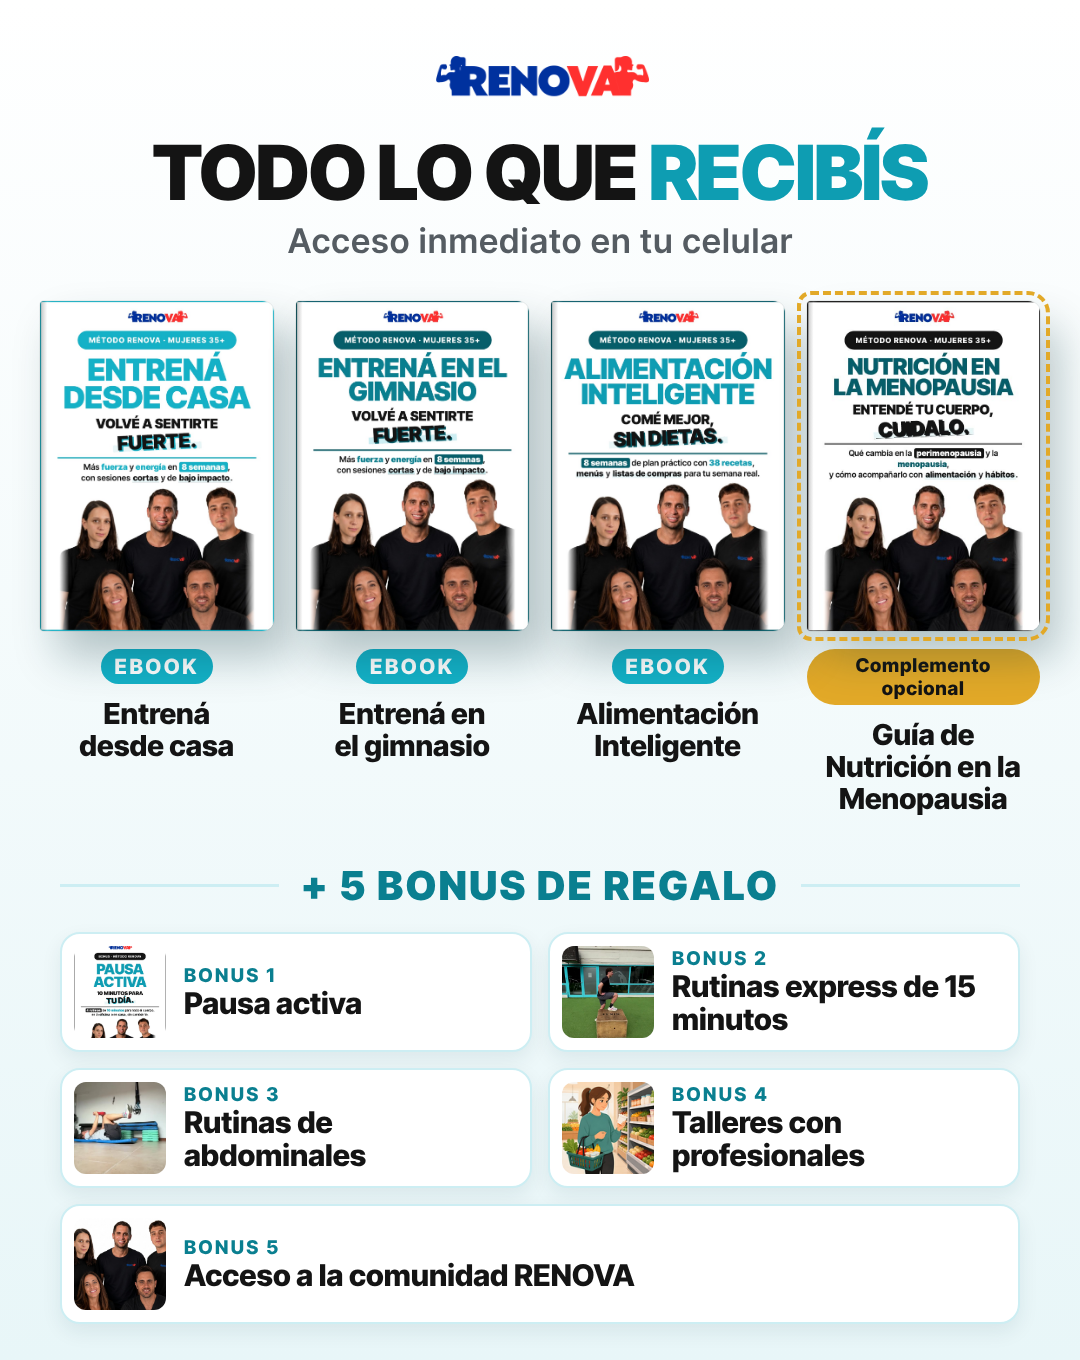
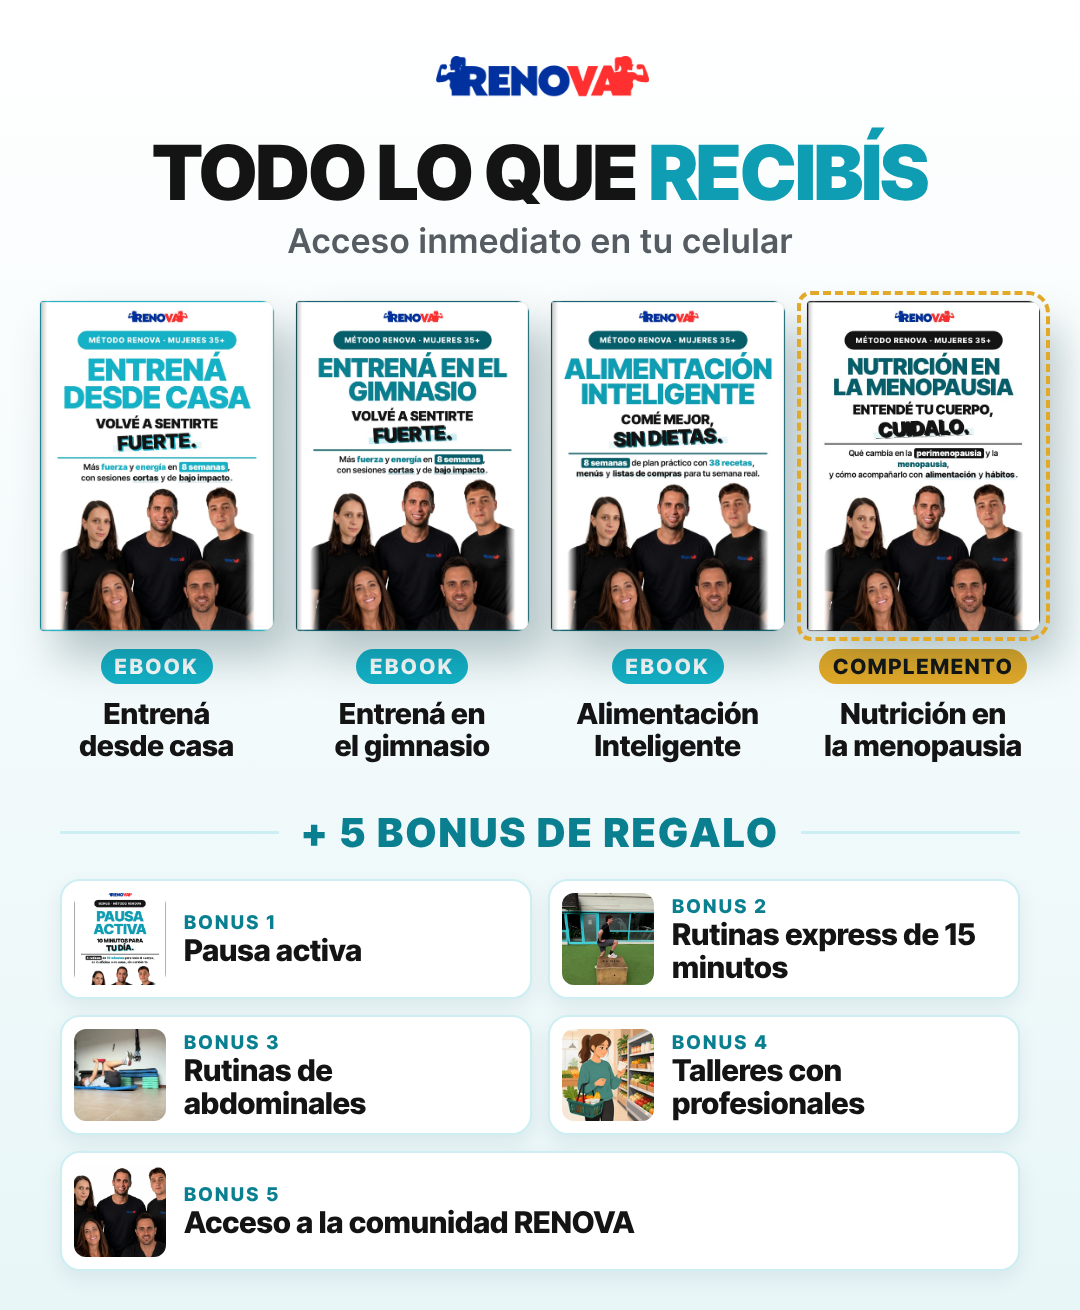
Pack del checkout: 'Nutrición en la menopausia' con etiqueta COMPLEMENTO
Claude-Session: https://claude.ai/code/session_016d9STMTFsB819XAn27rxwK

Changed region(s): [[0.0306, 0.0305, 0.9778, 0.6107], [0.0611, 0.6107, 0.9472, 0.9771], [0.9167, 0.6718, 0.9472, 0.7023]]

diff --git a/fuentes/landing/mockups/pack_checkout.html b/fuentes/landing/mockups/pack_checkout.html
@@ -93,7 +93,7 @@
 }
 
 *{box-sizing:border-box;margin:0;padding:0}
-body{width:1080px;height:1360px;overflow:hidden;font-family:InterW,sans-serif;color:var(--rnv-tinta);
+body{width:1080px;height:1310px;overflow:hidden;font-family:InterW,sans-serif;color:var(--rnv-tinta);
  background:linear-gradient(180deg,#fff 0%,var(--rnv-turquesa-fondo) 100%)}
 .top{text-align:center;padding-top:56px}
 .top img{height:52px}
@@ -107,7 +107,7 @@ h1 b{color:var(--rnv-turquesa-titulo)}
 .tapa img{width:100%;height:100%;object-fit:cover;display:block}
 .tapa::after{content:"";position:absolute;inset:0 auto 0 0;width:5%;background:linear-gradient(90deg,rgba(0,0,0,.25),rgba(255,255,255,.15) 60%,transparent)}
 .lib b{display:block;font:800 29px/1.1 InterTightW,sans-serif;margin-top:14px}
-.lib.op span{background:var(--rnv-oro);color:var(--rnv-tinta);letter-spacing:.04em;font-size:19px}
+.lib.op span{background:var(--rnv-oro);color:var(--rnv-tinta);letter-spacing:.08em;font-size:21px}
 .lib.op .tapa{outline:4px dashed var(--rnv-oro);outline-offset:6px}
 .lib span{display:inline-block;margin-top:18px;font:800 21px InterTightW,sans-serif;letter-spacing:.12em;color:#fff;
  background:var(--rnv-turquesa);padding:5px 14px;border-radius:999px}
@@ -123,6 +123,6 @@ h1 b{color:var(--rnv-turquesa-titulo)}
 .bo:last-child{grid-column:1/-1}
 </style>
 <div class="top"><img src="../img/logo.png"><h1>Todo lo que <b>recibís</b></h1><p class="sub">Acceso inmediato en tu celular</p></div>
-<div class="libros"><div class="lib"><div class="tapa"><img src="pack/tapa_casa.jpg"></div><span>EBOOK</span><b>Entrená<br>desde casa</b></div><div class="lib"><div class="tapa"><img src="pack/tapa_gym.jpg"></div><span>EBOOK</span><b>Entrená en<br>el gimnasio</b></div><div class="lib"><div class="tapa"><img src="pack/tapa_nutri.jpg"></div><span>EBOOK</span><b>Alimentación<br>Inteligente</b></div><div class="lib op"><div class="tapa"><img src="../img/tapa_menopausia.jpg"></div><span>Complemento opcional</span><b>Guía de Nutrición en la Menopausia</b></div></div>
+<div class="libros"><div class="lib"><div class="tapa"><img src="pack/tapa_casa.jpg"></div><span>EBOOK</span><b>Entrená<br>desde casa</b></div><div class="lib"><div class="tapa"><img src="pack/tapa_gym.jpg"></div><span>EBOOK</span><b>Entrená en<br>el gimnasio</b></div><div class="lib"><div class="tapa"><img src="pack/tapa_nutri.jpg"></div><span>EBOOK</span><b>Alimentación<br>Inteligente</b></div><div class="lib op"><div class="tapa"><img src="../img/tapa_menopausia.jpg"></div><span>COMPLEMENTO</span><b>Nutrición en<br>la menopausia</b></div></div>
 <div class="bh"><i></i><b>+ 5 bonus de regalo</b><i></i></div>
 <div class="bon"><div class="bo"><img src="pack/tapa_pausa.jpg" style="object-position:50% 12%"><div><i>BONUS 1</i><b>Pausa activa</b></div></div><div class="bo"><img src="../img/foto_subidas.jpg" style=""><div><i>BONUS 2</i><b>Rutinas express de 15 minutos</b></div></div><div class="bo"><img src="../img/foto_abdominales.jpg" style=""><div><i>BONUS 3</i><b>Rutinas de abdominales</b></div></div><div class="bo"><img src="../img/taller_super.jpg" style=""><div><i>BONUS 4</i><b>Talleres con profesionales</b></div></div><div class="bo"><img src="../img/comunidad.jpg" style=""><div><i>BONUS 5</i><b>Acceso a la comunidad RENOVA</b></div></div></div>

diff --git a/fuentes/landing/mockups/pack_checkout.js b/fuentes/landing/mockups/pack_checkout.js
@@ -2,7 +2,7 @@
 const { chromium } = require('playwright');
 (async () => {
   const b = await chromium.launch();
-  const p = await b.newPage({ viewport: { width: 1080, height: 1360 } });
+  const p = await b.newPage({ viewport: { width: 1080, height: 1310 } });
   await p.goto('file://' + __dirname + '/pack_checkout.html'); await p.waitForTimeout(800);
   console.log('alto', await p.evaluate(() => document.body.scrollHeight));
   await p.screenshot({ path: __dirname + '/../../../pack-renova/pack_checkout.png' });

diff --git a/fuentes/landing/mockups/pack_checkout.py b/fuentes/landing/mockups/pack_checkout.py
@@ -1,4 +1,4 @@
-"""Imagen del pack para el checkout de Impultienda (va arriba del botón de compra), 1080x1360.
+"""Imagen del pack para el checkout de Impultienda (va arriba del botón de compra), 1080x1310.
 Fondo claro como el checkout, tapas reales y los 5 bonus con los nombres de la landing.
 Uso: cd fuentes/landing/mockups && python3 pack_checkout.py && node pack_checkout.js  →  ../../../pack-renova/pack_checkout.png"""
 import sys
@@ -9,7 +9,7 @@ from design_system import css
 I, P = "../img/", "pack/"
 LIBROS = [(P + "tapa_casa.jpg", "Entrená<br>desde casa", ""), (P + "tapa_gym.jpg", "Entrená en<br>el gimnasio", ""),
           (P + "tapa_nutri.jpg", "Alimentación<br>Inteligente", ""),
-          (I + "tapa_menopausia.jpg", "Guía de Nutrición en la Menopausia", "Complemento opcional")]
+          (I + "tapa_menopausia.jpg", "Nutrición en<br>la menopausia", "COMPLEMENTO")]
 BONUS = [(P + "tapa_pausa.jpg", "Pausa activa", "object-position:50% 12%"),
          (I + "foto_subidas.jpg", "Rutinas express de 15 minutos", ""),
          (I + "foto_abdominales.jpg", "Rutinas de abdominales", ""),
@@ -18,7 +18,7 @@ BONUS = [(P + "tapa_pausa.jpg", "Pausa activa", "object-position:50% 12%"),
 
 CSS = css(str(Path(__file__).parent)) + """
 *{box-sizing:border-box;margin:0;padding:0}
-body{width:1080px;height:1360px;overflow:hidden;font-family:InterW,sans-serif;color:var(--rnv-tinta);
+body{width:1080px;height:1310px;overflow:hidden;font-family:InterW,sans-serif;color:var(--rnv-tinta);
  background:linear-gradient(180deg,#fff 0%,var(--rnv-turquesa-fondo) 100%)}
 .top{text-align:center;padding-top:56px}
 .top img{height:52px}
@@ -32,7 +32,7 @@ h1 b{color:var(--rnv-turquesa-titulo)}
 .tapa img{width:100%;height:100%;object-fit:cover;display:block}
 .tapa::after{content:"";position:absolute;inset:0 auto 0 0;width:5%;background:linear-gradient(90deg,rgba(0,0,0,.25),rgba(255,255,255,.15) 60%,transparent)}
 .lib b{display:block;font:800 29px/1.1 InterTightW,sans-serif;margin-top:14px}
-.lib.op span{background:var(--rnv-oro);color:var(--rnv-tinta);letter-spacing:.04em;font-size:19px}
+.lib.op span{background:var(--rnv-oro);color:var(--rnv-tinta);letter-spacing:.08em;font-size:21px}
 .lib.op .tapa{outline:4px dashed var(--rnv-oro);outline-offset:6px}
 .lib span{display:inline-block;margin-top:18px;font:800 21px InterTightW,sans-serif;letter-spacing:.12em;color:#fff;
  background:var(--rnv-turquesa);padding:5px 14px;border-radius:999px}
